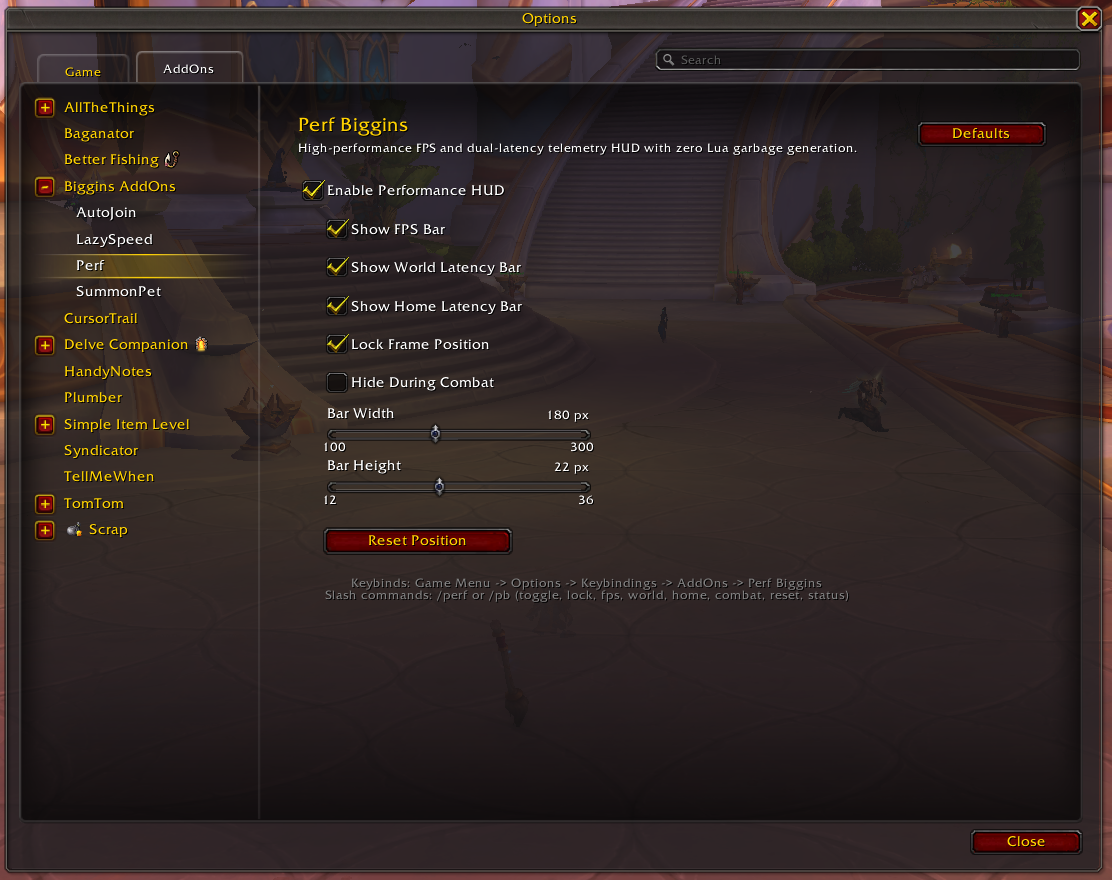
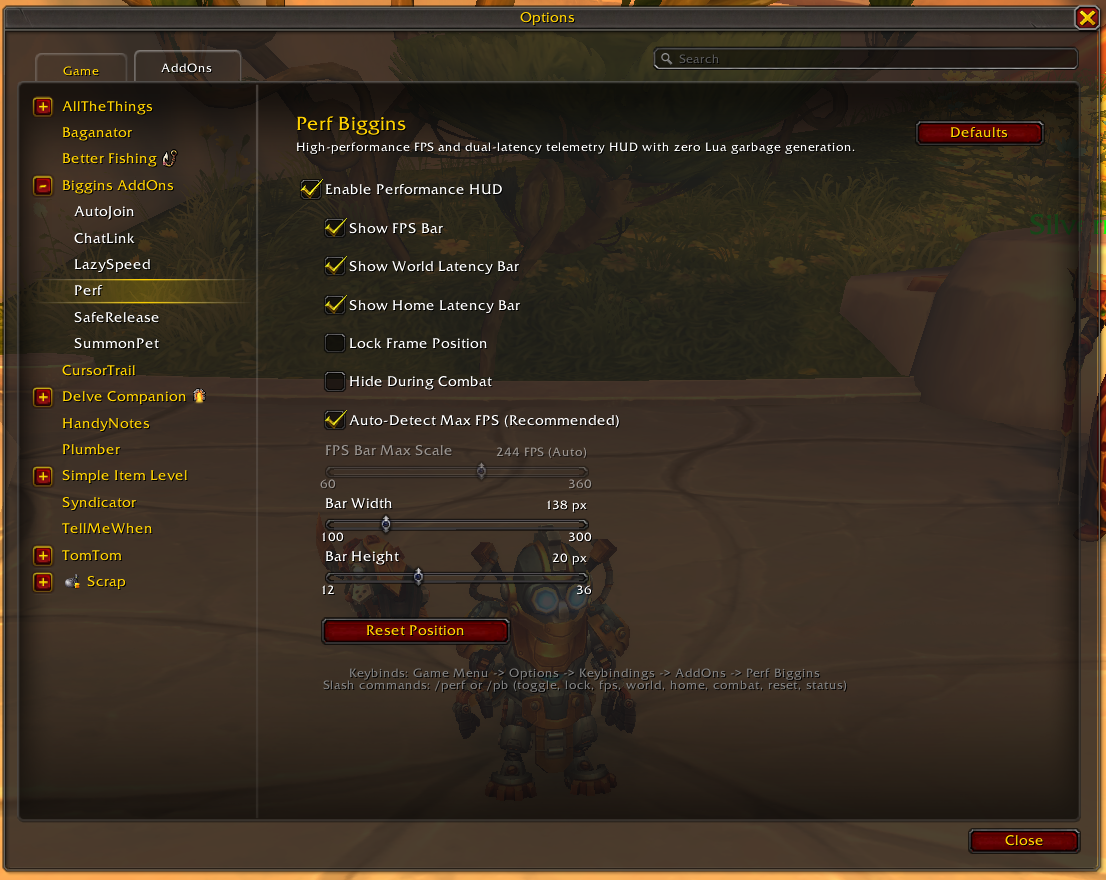
perf-biggins 1.3.0

diff --git a/perf-biggins/CHANGELOG.md b/perf-biggins/CHANGELOG.md
@@ -4,6 +4,21 @@ All notable changes to **Perf Biggins** will be documented in this file.
 
 ---
 
+## [1.3.0] - 2026-10-31
+
+### Added
+- **Dynamic FPS Scale Ceiling & Auto-Detection:** The FPS status bar now dynamically scales its 100% full capacity based on the user's active hardware or graphics settings rather than a hardcoded 144 FPS limit.
+  - **Foreground FPS CVar Detection:** Automatically reads `GetCVar("maxFPS")` (when `useMaxFPS` is active) and locks the bar ceiling strictly to the user's configured hardware limit (e.g. 240 FPS / 244 FPS on high-refresh monitors).
+  - **Adaptive Floor for Uncapped Setups:** When Max Foreground FPS is disabled, the system operates in true uncapped mode: it begins at a clean 60 FPS baseline for standard 60Hz displays and automatically expands upward to match actual observed performance (120, 144, 240+ FPS) with zero ceiling clipping.
+- **Event-Driven Rescaling (`CVAR_UPDATE`):** Listens for real-time graphics setting adjustments in World of Warcraft; toggling or sliding Max Foreground FPS instantly rescales the bar with zero `/reload` required.
+- **Float Rounding & Color Boundary Polish:** Adjusted color threshold boundaries to 59.5 FPS (Green) and 29.5 FPS (Yellow) so floating-point rounding display values (such as `60.0 FPS` and `30.0 FPS`) consistently map to their intended color brackets.
+- **Transparent Options UI Controls:** Added an `[x] Auto-Detect Max FPS (Recommended)` checkbox and an `FPS Bar Max Scale` slider (60 - 360 FPS).
+  - When Auto-Detect is enabled, the slider is disabled (grayed out) but visually tracks and displays the active detected ceiling (e.g., `244 FPS (Auto)`).
+  - When Auto-Detect is disabled, the slider becomes fully interactive for manual fixed refresh rate calibration.
+- **Enhanced Status Diagnostics:** `/pb status` now outputs active auto-detection status and current numeric FPS scale ceiling.
+
+---
+
 ## [1.2.0] - 2026-10-23
 
 ### Added

diff --git a/perf-biggins/description.md b/perf-biggins/description.md
@@ -5,7 +5,7 @@
 ### Features
 - **Integrated Tri-Bar HUD:** Real-time telemetry for FPS, World ping, and Home ping in a single cohesive unit.
 - **Isolate Network Issues:** Comparing World latency (combat & mechanics) and Home latency (realm connection) makes diagnosing lag spikes instant.
-- **Dynamic Color Shifts:** Clean, color-coded bars for optimal (green), acceptable (yellow), and critical (red) thresholds.
+- **Dynamic Color Shifts & Auto-Scale:** Clean, color-coded bars for optimal (green), acceptable (yellow), and critical (red) thresholds with auto-detection for 60Hz, 144Hz, 240Hz+ monitors.
 - **Zero Garbage Collection:** Uses pre-cached format pointers and native C++ formatting with zero Lua string allocations.
 - **Independent Bar Toggles:** Turn off any bar you don't need; visible bars collapse seamlessly and the container resizes automatically.
 - **Draggable & Lockable:** Drag anywhere on screen with Left-Click and lock in place via settings.

diff --git a/perf-biggins/README.md b/perf-biggins/README.md
@@ -7,7 +7,7 @@
 ## Key Features
 
 - **Tri-Bar Performance HUD:**
-  - **FPS Bar:** Real-time frames per second with dynamic color shifts (Green &ge; 60, Yellow 30-59, Red < 30).
+  - **FPS Bar:** Real-time frames per second with dynamic color shifts (Green &ge; 60, Yellow 30-59, Red < 30) and automatic refresh rate detection (scales 100% full capacity dynamically to match 60Hz, 144Hz, 240Hz+, or custom framerate caps).
   - **World Latency Bar:** Latency to the combat/gameplay server (abilities, encounters, player positions). Color coded from optimal green (< 50ms) to lag spike red (> 200ms).
   - **Home Latency Bar:** Latency to the realm server (chat, auction house, guild system). Compare with World latency to isolate local Wi-Fi issues vs. Blizzard server load.
 - **Zero Memory Churn:** Uses pre-cached format pointers with native C++ string formatting (`FontString:SetFormattedText`). Zero runtime string allocations and zero garbage collection spikes.
